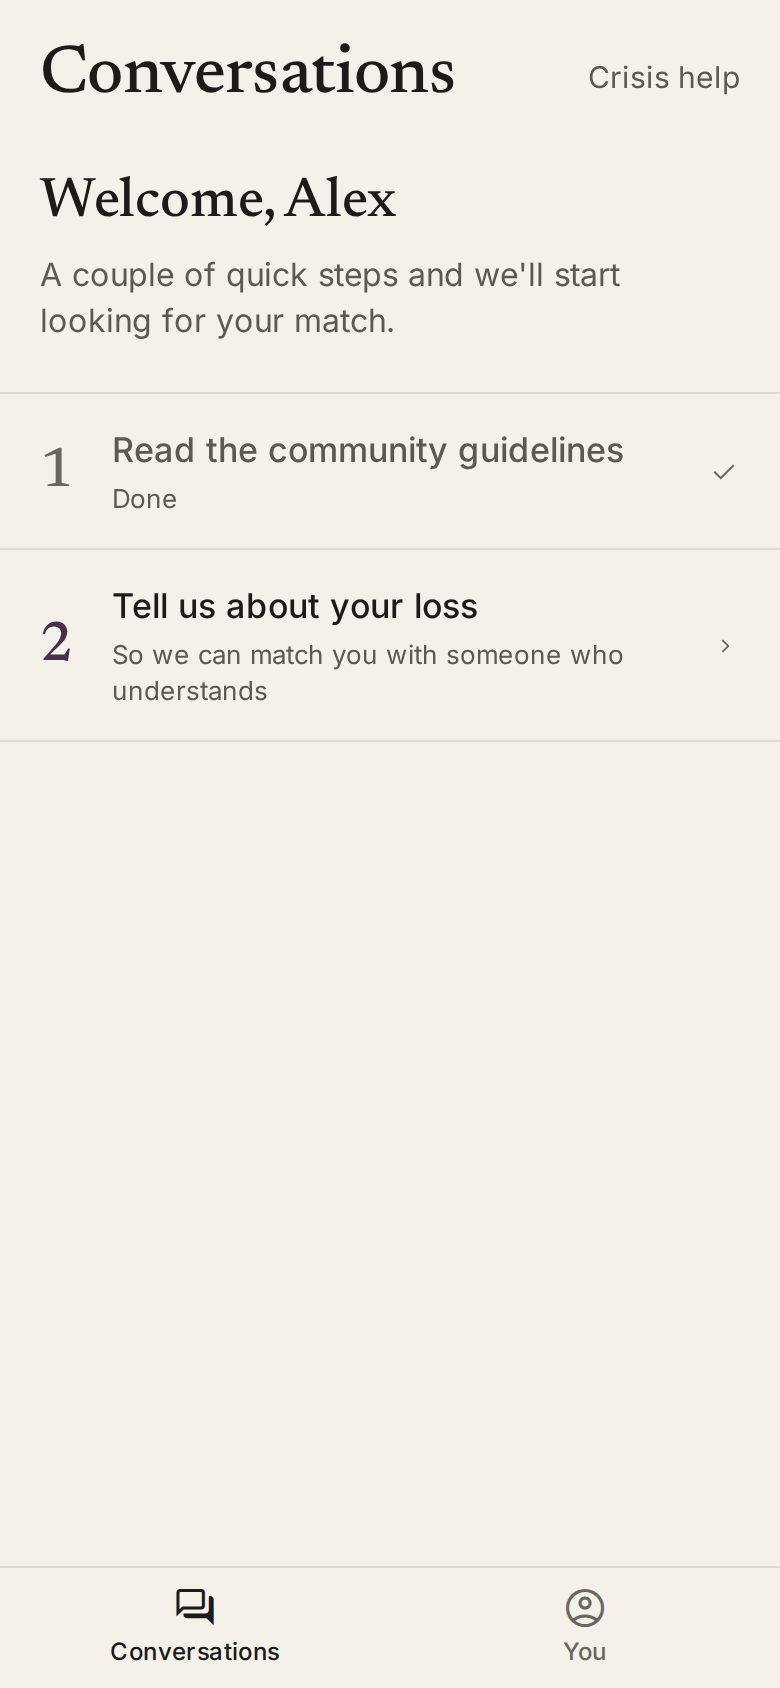
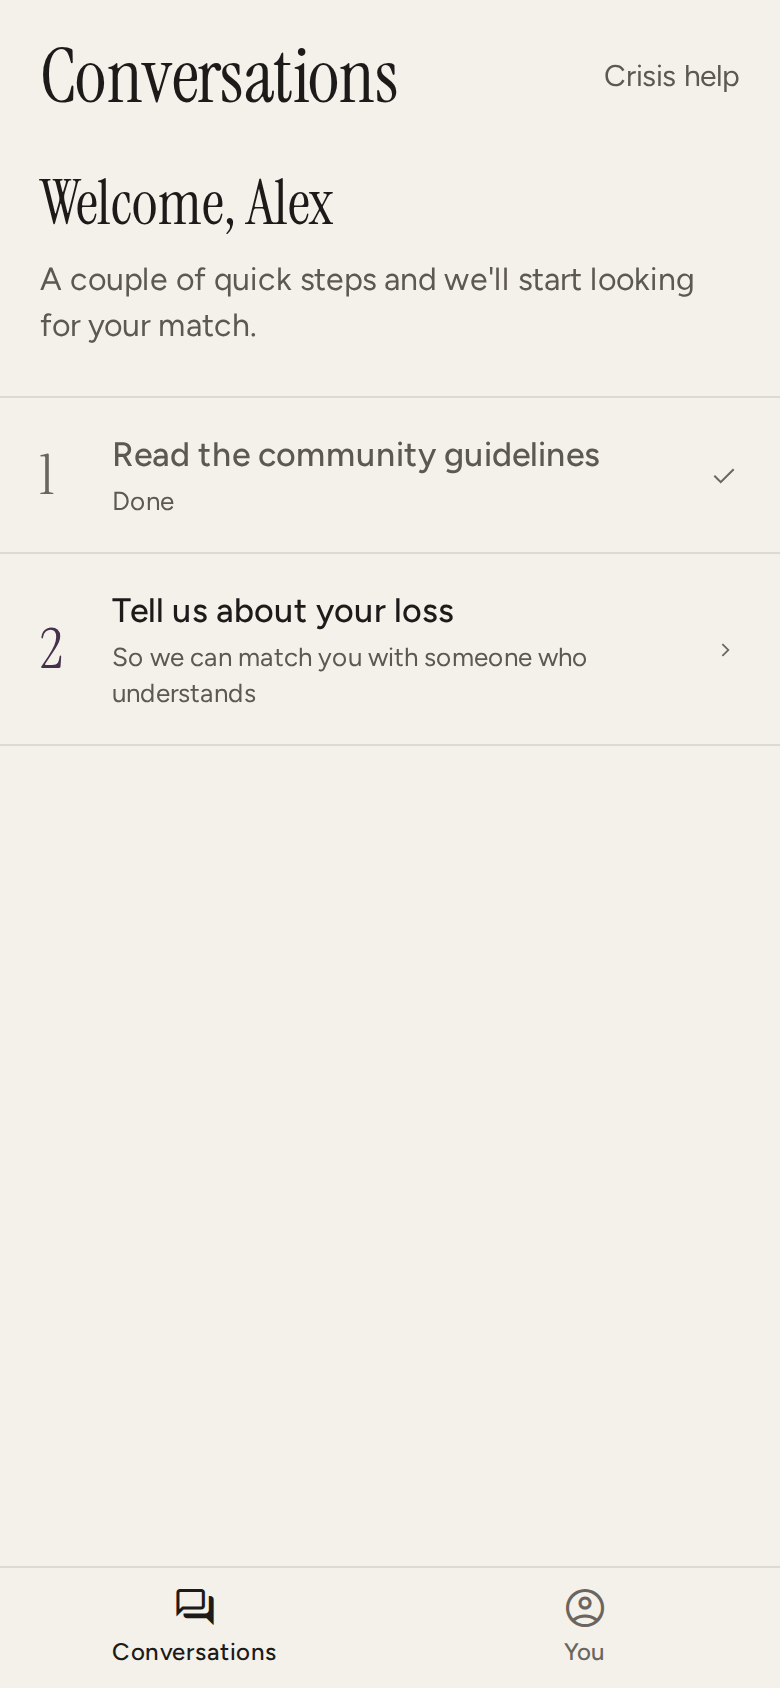
Switch to Instrument Serif and Figtree
The founder picked this pairing from the type comparison.

- App: Instrument Serif for the wordmark, titles and avatar initials;
  Figtree for everything else. Names in the conversation list move to
  Figtree (medium, semibold when unread), since the serif is too fine at
  list sizes. Serif sizes go up a step because Instrument runs small.
  Instrument has one weight, so serifSemibold is gone.
- Website: same pairing via next/font; serif headings at weight 400.
- Refreshed the hero screenshots, the plum home mockups and the landing
  screenshots. Recorded plum and the fonts as decided.

Claude-Session: https://claude.ai/code/session_01Pnj4vjaiKDnBMejMrkLY8S

diff --git a/mobile/src/theme.ts b/mobile/src/theme.ts
@@ -125,27 +125,28 @@ const avatarTints = {
 // ---------------------------------------------------------------------------
 // Type
 //
-// Newsreader (serif) for headings, Inter (sans) for everything people read at
-// length. Sizes follow the iOS text styles so Dynamic Type feels native; Text
-// scales with the system setting by default.
+// Instrument Serif for the wordmark, titles and avatar initials; Figtree for
+// everything people read, names included (Instrument is too fine at list
+// sizes). Instrument has a single weight, so there is no bold serif. It also
+// runs small and narrow, so the serif sizes sit a step above the iOS text
+// styles. Text scales with the system setting (Dynamic Type) by default.
 // ---------------------------------------------------------------------------
 
 export const fonts = {
-  serif: "Newsreader_500Medium",
-  serifSemibold: "Newsreader_600SemiBold",
-  serifItalic: "Newsreader_400Regular_Italic",
-  sans: "Inter_400Regular",
-  sansMedium: "Inter_500Medium",
-  sansSemibold: "Inter_600SemiBold",
+  serif: "InstrumentSerif_400Regular",
+  serifItalic: "InstrumentSerif_400Regular_Italic",
+  sans: "Figtree_400Regular",
+  sansMedium: "Figtree_500Medium",
+  sansSemibold: "Figtree_600SemiBold",
 } as const;
 
 export const type = {
   // Serif
-  display: { fontFamily: fonts.serif, fontSize: 44, lineHeight: 50, letterSpacing: -0.5 },
-  largeTitle: { fontFamily: fonts.serif, fontSize: 34, lineHeight: 40, letterSpacing: -0.3 },
-  title1: { fontFamily: fonts.serif, fontSize: 28, lineHeight: 34, letterSpacing: -0.2 },
-  title2: { fontFamily: fonts.serif, fontSize: 22, lineHeight: 28 },
-  title3: { fontFamily: fonts.serif, fontSize: 20, lineHeight: 26 },
+  display: { fontFamily: fonts.serif, fontSize: 52, lineHeight: 56, letterSpacing: -0.5 },
+  largeTitle: { fontFamily: fonts.serif, fontSize: 38, lineHeight: 44, letterSpacing: -0.3 },
+  title1: { fontFamily: fonts.serif, fontSize: 31, lineHeight: 36, letterSpacing: -0.2 },
+  title2: { fontFamily: fonts.serif, fontSize: 25, lineHeight: 30 },
+  title3: { fontFamily: fonts.serif, fontSize: 22, lineHeight: 27 },
   // Sans
   headline: { fontFamily: fonts.sansSemibold, fontSize: 17, lineHeight: 24 },
   body: { fontFamily: fonts.sans, fontSize: 17, lineHeight: 25 },

diff --git a/mobile/app/_layout.tsx b/mobile/app/_layout.tsx
@@ -3,11 +3,10 @@ import { Slot, useRouter, useSegments } from "expo-router";
 import { StatusBar } from "expo-status-bar";
 import { useFonts } from "expo-font";
 import {
-  Newsreader_400Regular_Italic,
-  Newsreader_500Medium,
-  Newsreader_600SemiBold,
-} from "@expo-google-fonts/newsreader";
-import { Inter_400Regular, Inter_500Medium, Inter_600SemiBold } from "@expo-google-fonts/inter";
+  InstrumentSerif_400Regular,
+  InstrumentSerif_400Regular_Italic,
+} from "@expo-google-fonts/instrument-serif";
+import { Figtree_400Regular, Figtree_500Medium, Figtree_600SemiBold } from "@expo-google-fonts/figtree";
 import { GateProvider, useGate } from "../src/hooks/useGate";
 
 function GatedSlot() {
@@ -52,12 +51,11 @@ function GatedSlot() {
 
 export default function RootLayout() {
   const [fontsLoaded, fontError] = useFonts({
-    Newsreader_400Regular_Italic,
-    Newsreader_500Medium,
-    Newsreader_600SemiBold,
-    Inter_400Regular,
-    Inter_500Medium,
-    Inter_600SemiBold,
+    InstrumentSerif_400Regular,
+    InstrumentSerif_400Regular_Italic,
+    Figtree_400Regular,
+    Figtree_500Medium,
+    Figtree_600SemiBold,
   });
 
   // If fonts fail to load, carry on with the system fonts rather than block.

diff --git a/web/src/app/layout.tsx b/web/src/app/layout.tsx
@@ -1,15 +1,17 @@
 import type { Metadata, Viewport } from "next";
-import { Inter, Newsreader } from "next/font/google";
+import { Figtree, Instrument_Serif } from "next/font/google";
 import "./globals.css";
 
-// Same pairing as the app: Newsreader for headings, Inter for reading.
-const newsreader = Newsreader({
+// Same pairing as the app: Instrument Serif for the wordmark and headings,
+// Figtree for reading. Instrument Serif has a single weight.
+const instrumentSerif = Instrument_Serif({
   variable: "--font-serif",
   subsets: ["latin"],
+  weight: "400",
   style: ["normal", "italic"],
 });
 
-const inter = Inter({
+const figtree = Figtree({
   variable: "--font-sans",
   subsets: ["latin"],
 });
@@ -33,7 +35,7 @@ export default function RootLayout({
   children: React.ReactNode;
 }) {
   return (
-    <html lang="en" className={`${newsreader.variable} ${inter.variable}`}>
+    <html lang="en" className={`${instrumentSerif.variable} ${figtree.variable}`}>
       <body>{children}</body>
     </html>
   );

diff --git a/web/src/app/globals.css b/web/src/app/globals.css
@@ -1,5 +1,5 @@
 /* Ndo landing page. Tokens mirror mobile/src/theme.ts: paper and ink, one
-   plum accent, Newsreader for headings and Inter for reading. */
+   plum accent, Instrument Serif for headings and Figtree for reading. */
 
 :root {
   --paper: #f4f1eb;
@@ -74,7 +74,7 @@ h1,
 h2,
 h3 {
   font-family: var(--serif);
-  font-weight: 500;
+  font-weight: 400;
   margin: 0;
   text-wrap: balance;
 }
@@ -142,7 +142,7 @@ img {
 .wordmark {
   font-family: var(--serif);
   font-size: 1.75rem;
-  font-weight: 500;
+  font-weight: 400;
   letter-spacing: -0.01em;
   text-decoration: none;
 }
@@ -812,7 +812,8 @@ a:has(> .badge):hover {
   line-height: 1.2;
 }
 
-.legal ul {
+.legal ul,
+.legal ol {
   margin: 0;
   padding-left: 1.25rem;
   display: grid;

diff --git a/mobile/app/design-preview.tsx b/mobile/app/design-preview.tsx
@@ -195,9 +195,9 @@ function ComponentKit() {
         <Text variant="display">Ndo</Text>
         <Text variant="title1">Title one, in serif</Text>
         <Text variant="title3">Title three, in serif</Text>
-        <Text variant="headline">Headline in Inter</Text>
+        <Text variant="headline">Headline in Figtree</Text>
         <Text variant="body">
-          Body text is Inter at 17pt, set loosely so long messages stay easy to read.
+          Body text is Figtree at 17pt, set loosely so long messages stay easy to read.
         </Text>
         <Text variant="footnote" color="textTertiary">
           Footnote for timestamps and hints

diff --git a/mobile/src/components/home/HomeBlocks.tsx b/mobile/src/components/home/HomeBlocks.tsx
@@ -52,7 +52,7 @@ export function ConversationRow({
       <View style={styles.rowBody}>
         <View style={styles.rowTop}>
           <Text
-            variant="title3"
+            variant="bodyMedium"
             numberOfLines={1}
             style={[styles.rowName, unread && styles.rowNameUnread]}
           >
@@ -341,7 +341,7 @@ const styles = StyleSheet.create({
     flex: 1,
   },
   rowNameUnread: {
-    fontFamily: fonts.serifSemibold,
+    fontFamily: fonts.sansSemibold,
   },
   unreadDot: {
     width: 8,

diff --git a/docs/redesign/README.md b/docs/redesign/README.md
@@ -5,7 +5,7 @@ Tracks the redesign described in [DESIGN_BRIEF.md](../DESIGN_BRIEF.md).
 | Step | Status |
 | --- | --- |
 | 1. Theme and shared components | Done — `mobile/src/theme.ts`, `mobile/src/components/ui/` |
-| 2. Home screen mockup, founder approval | **Waiting for approval** — screenshots below |
+| 2. Home screen mockup, founder approval | Accent and fonts approved (round 3); two smaller decisions open, below |
 | 3. Apply screen by screen | Not started |
 | 4. Screenshot every screen at 390×844 | Not started |
 | 5. Try on a phone | Not started |
@@ -13,7 +13,15 @@ Tracks the redesign described in [DESIGN_BRIEF.md](../DESIGN_BRIEF.md).
 No live screen has changed yet. The mockup is a development-only route,
 `/design-preview`, that renders the new home screen with sample data.
 
-## Home mockup (390×844), round 2
+## Home mockup (390×844), round 3
+
+Round 3 keeps round 2's layout and changes the type: Instrument Serif for the
+wordmark, titles and avatar initials, and Figtree for everything else. Names in
+the conversation list moved from the serif to Figtree, because Instrument Serif
+is too fine at list sizes. The founder picked this pairing from a comparison of
+seven, then of Fraunces and Instrument Serif with their crosses.
+
+### Round 2
 
 Round 1 read as generic (beige, slate blue, pastel avatars, tinted boxes).
 Round 2 aims for premium, made for people who are grieving: stationery rather
@@ -21,8 +29,8 @@ than software.
 
 - **Paper and ink.** Almost everything is a warm neutral. The accent appears
   only on the primary action, links and the unread mark.
-- **Type does the work.** Serif names in the list, two-line previews, hairline
-  rules instead of cards.
+- **Type does the work.** Two-line previews and hairline rules instead of
+  cards. (Round 2 set names in the serif; round 3 moved them to the sans.)
 - **Nothing gamified.** The onboarding progress bar and "1 of 2" are gone;
   the steps are numbered in serif numerals instead.
 - **Quiet safety.** "Crisis help" is plain text in the header. The check-in is
@@ -34,8 +42,8 @@ Screenshots are in [`home-mockup/`](home-mockup/).
 
 | File | What it shows |
 | --- | --- |
-| `accent-comparison.png` | The three accent options side by side |
-| `active-plum-*.png` | Conversation list (also `active-ink-light`, `active-spruce-light`) |
+| `accent-comparison.png` | The three accent options side by side (round 2 fonts) |
+| `active-plum-*.png` | Conversation list (`active-ink-light` and `active-spruce-light` are round 2) |
 | `new-plum-*.png` | New user, onboarding steps |
 | `waiting-plum-*.png` | Waiting for a match |
 | `support-plum-*.png` | Check-in and departure notice above the list (full scroll) |
@@ -44,17 +52,18 @@ Screenshots are in [`home-mockup/`](home-mockup/).
 The tab bar in the mockup is a stand-in; the real one arrives with the
 navigation step.
 
-## Decisions to confirm
+## Decisions
 
 1. **Accent: Plum** `#46304B` (aubergine, the traditional half-mourning
-   color). The founder is leaning plum, so it is now the default; ink and
-   spruce stay available in the preview until it's final. In dark mode,
+   color). **Decided.** Ink and spruce stay in the preview only for reference. In dark mode,
    buttons use a deep aubergine fill `#5A3F60` with white text, and links use
    a light plum `#C6AFC9`, so nothing turns pastel.
-2. **Fonts.** Newsreader for headings and names, Inter for body text.
-3. **Check-in card.** One button (988), "Text HELLO to 741741" as a link.
+2. **Fonts: Instrument Serif + Figtree.** **Decided.** Instrument Serif
+   (one weight, plus italic) for the wordmark, titles and avatar initials;
+   Figtree for body text and names.
+3. **To confirm — check-in card.** One button (988), "Text HELLO to 741741" as a link.
    Copy unchanged.
-4. **Crisis help** as plain text in the header of every screen.
+4. **To confirm — crisis help** as plain text in the header of every screen.
 
 ## Landing page
 

diff --git a/docs/DESIGN_BRIEF.md b/docs/DESIGN_BRIEF.md
@@ -30,8 +30,9 @@ screens.
   deep muted blue, replacing the stock `#3B82F6`. Own chat bubbles in the
   accent, theirs in warm grey. Red only for "Yes, right now". Plan for dark
   mode.
-- **Type:** a serif for headings (e.g. Newsreader, Fraunces or Source Serif) and
-  a clean sans for body text. Define a clear size scale.
+- **Type:** a serif for headings and a clean sans for body text. Define a
+  clear size scale. (Decided: Instrument Serif and Figtree; see
+  `docs/redesign/README.md`.)
 - **Spacing and shape:** a 4pt grid and consistent corner radii (cards,
   bubbles, pills).
 - **Icons:** one icon set (SF Symbols via `expo-symbols`). No emoji. Replace the
